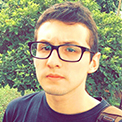
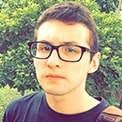
Size Optimization and Facebook Tags

diff --git a/index.html b/index.html
@@ -23,6 +23,14 @@
 		  ga('send', 'pageview');
 
 		</script>
+
+		<meta property="og:url"                content="http:/farid.im" />
+		<meta property="og:title"              content="Farid Martínez Yd" />
+		<meta property="og:description"        content="EFL Teacher" />
+		<meta property="og:image"              content="https://dl.dropboxusercontent.com/u/7325999/2.png" />
+	
+
+
 	</head>
 	<body class="is-loading">
 
